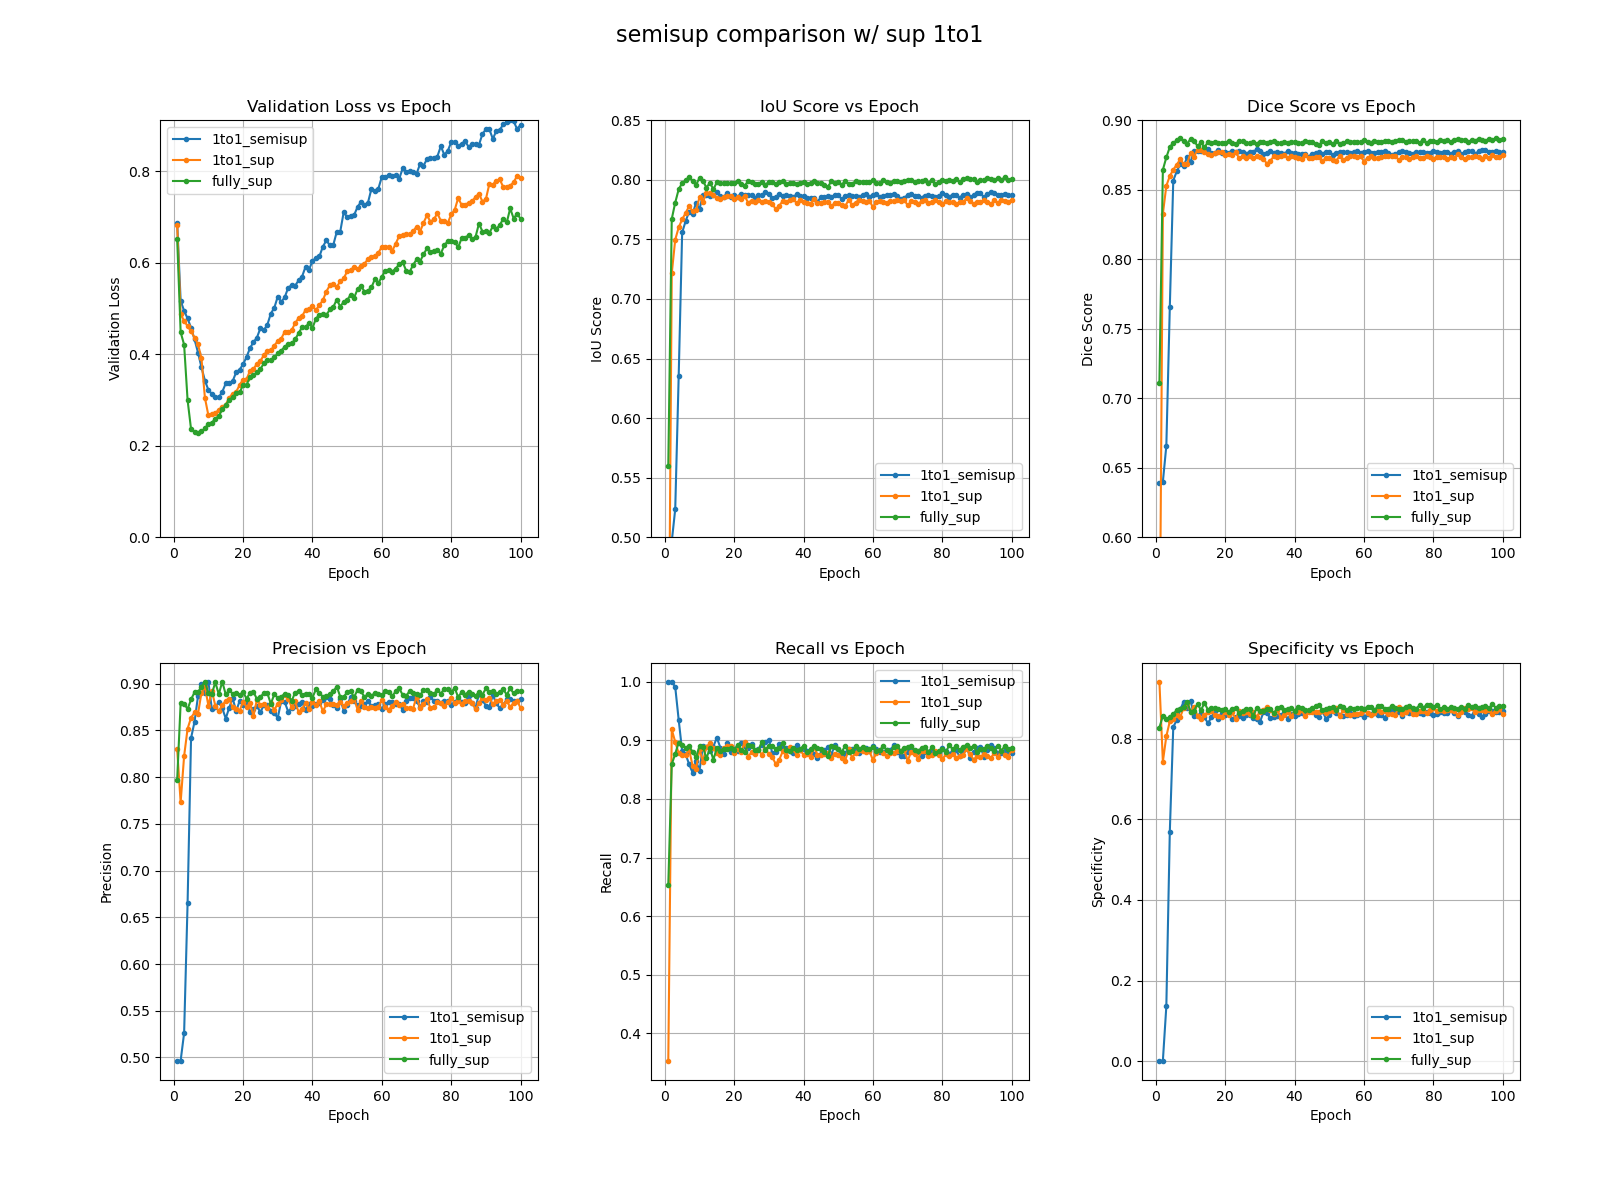
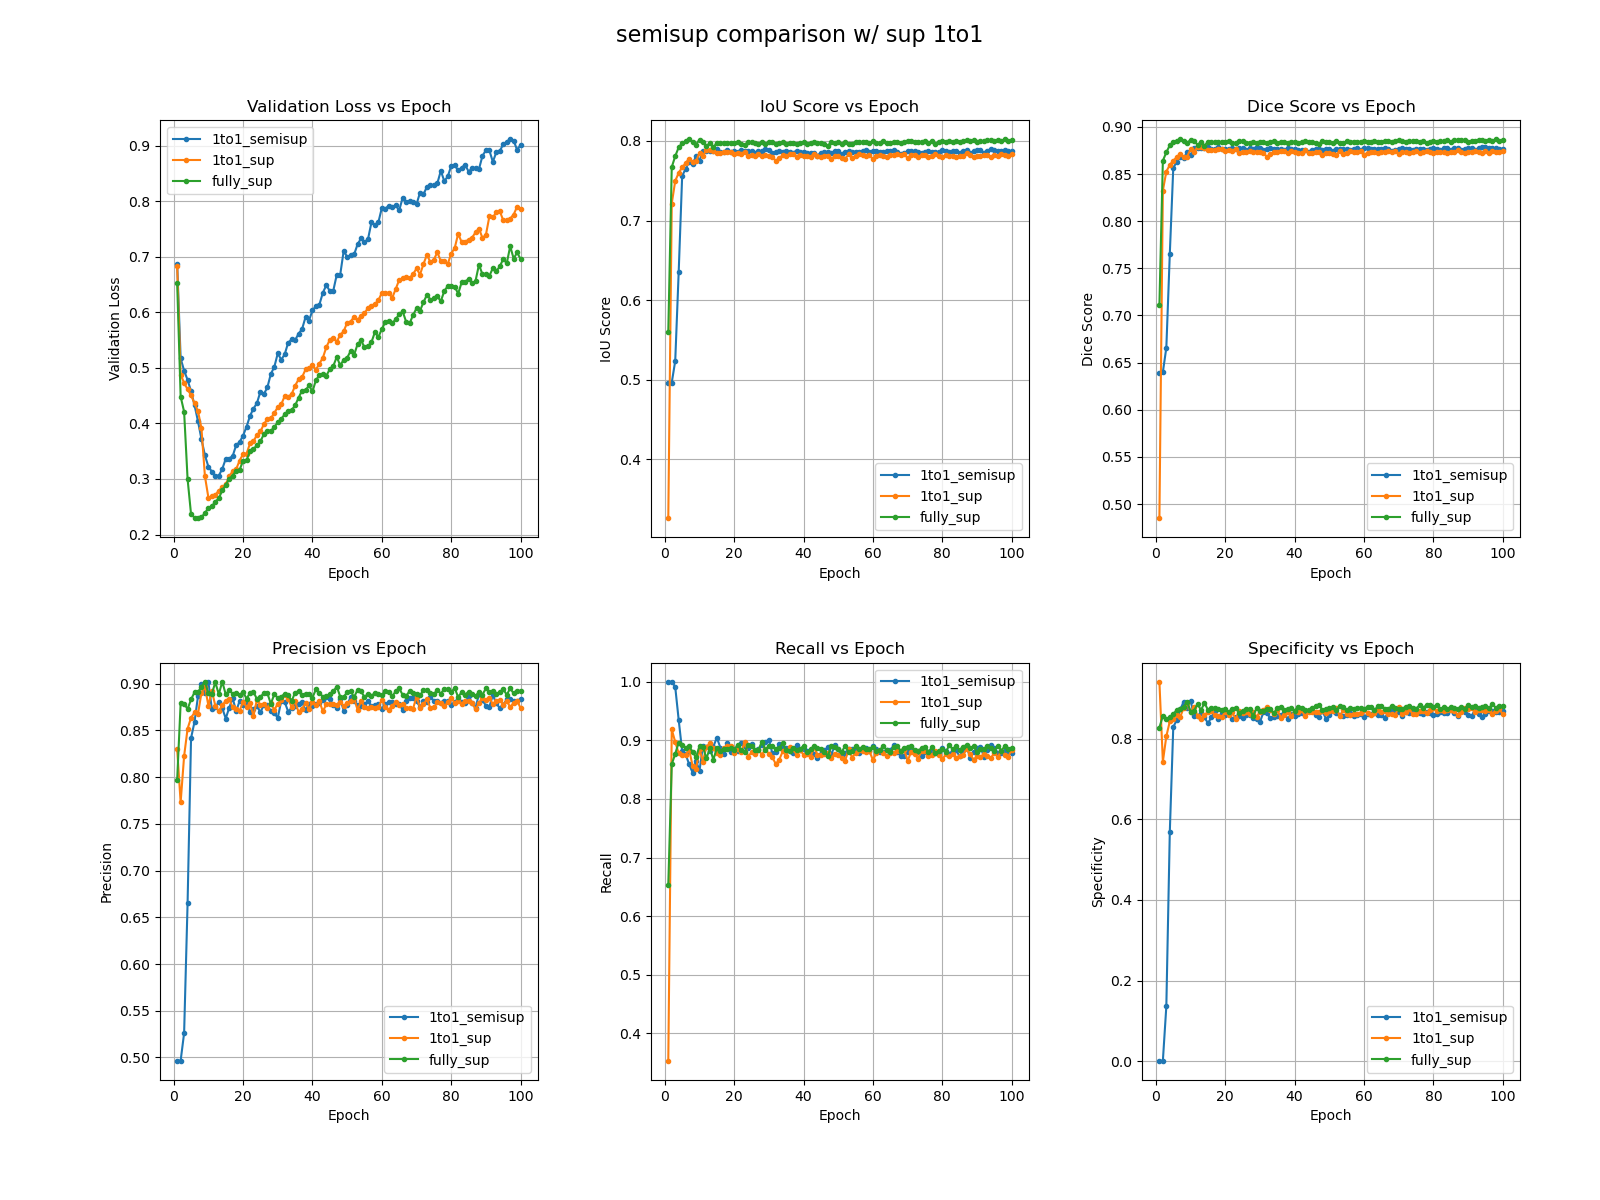
comparing all ratios with fully sup added

diff --git a/plot_metrics.py b/plot_metrics.py
@@ -91,14 +91,14 @@ def plot_three_metrics(semisup_csv, sup_csv, fully_sup_csv):
     # Create a plot for each column
     for i in range(1, len(headers1)):
         ax = axes[i-1]
-        if i == 1:
-            ax.set_ylim([0, max(data1[i])])
-        elif i == 2:
-            ax.set_ylim([0.5, 0.85])
-        elif i == 3:
-            ax.set_ylim([0.6, 0.9])
+        # if i == 1:
+        #     ax.set_ylim([0, max(data1[i])])
+        # elif i == 2:
+        #     ax.set_ylim([0.45, 0.81])
+        # elif i == 3:
+        #     ax.set_ylim([0.65, 0.9])
         # elif i == 4:
-        #     ax.set_ylim([0.75, 1])
+        #     ax.set_ylim([0.75, 0.95])
         ax.plot(data1[0], data1[i], marker='o', markersize = marker_size, linestyle='-', label=f'{extract_label(semisup_csv)}')
         ax.plot(data2[0], data2[i], marker='o', markersize = marker_size, linestyle='-', label=f'{extract_label(sup_csv)}')
         ax.plot(data3[0], data3[i], marker='o', markersize = marker_size, linestyle='-', label=f'{extract_label(fully_sup_csv)}')
@@ -189,62 +189,63 @@ def plot_four_metrics(csv_1to1, csv_1to3, csv_1to5, csv_1to10):
     
 plot_four_metrics('csv_metrics/metrics_1to1_semisup.csv', 'csv_metrics/metrics_1to3_semisup.csv', 'csv_metrics/metrics_1to5_semisup.csv', 'csv_metrics/metrics_1to10_semisup.csv')
 
-# def plot_five_metrics(csv_1to1, csv_1to3, csv_1to5, csv_1to10, csv_fullsup):
-#     '''Plot comparison between the different ratios of labeled to unlabeled data'''
-#     # Read data from both CSV files
-#     headers1, data1 = read_csv_data(csv_1to1)
-#     headers2, data2 = read_csv_data(csv_1to3)
-#     headers3, data3 = read_csv_data(csv_1to5)
-#     headers4, data4 = read_csv_data(csv_1to10)
-#     headers5, data5 = read_csv_data(csv_fullsup)
+def plot_five_metrics(csv_1to1, csv_1to3, csv_1to5, csv_1to10, csv_fullsup):
+    '''Plot comparison between the different ratios of labeled to unlabeled data'''
+    # Read data from both CSV files
+    headers1, data1 = read_csv_data(csv_1to1)
+    headers2, data2 = read_csv_data(csv_1to3)
+    headers3, data3 = read_csv_data(csv_1to5)
+    headers4, data4 = read_csv_data(csv_1to10)
+    headers5, data5 = read_csv_data(csv_fullsup)
 
-#     # Transpose data for easier plotting
-#     data1 = list(zip(*data1))
-#     data2 = list(zip(*data2))
-#     data3 = list(zip(*data3))
-#     data4 = list(zip(*data4))
-#     data5 = list(zip(*data5))
+    # Transpose data for easier plotting
+    data1 = list(zip(*data1))
+    data2 = list(zip(*data2))
+    data3 = list(zip(*data3))
+    data4 = list(zip(*data4))
+    data5 = list(zip(*data5))
     
-#     # Create a 2*3 grid of subplots
-#     fig, axes = plt.subplots(2, 3, figsize=(16, 12))
-#     axes = axes.ravel()
+    # Create a 2*3 grid of subplots
+    fig, axes = plt.subplots(2, 3, figsize=(16, 12))
+    axes = axes.ravel()
     
-#     # Function to extract label from CSV file name
-#     def extract_label(file_name):
-#         file_name = file_name.replace("csv_metrics/metrics_", "")
-#         file_name = file_name.replace(".csv", "")
-#         return file_name
+    # Function to extract label from CSV file name
+    def extract_label(file_name):
+        file_name = file_name.replace("csv_metrics/metrics_", "")
+        file_name = file_name.replace(".csv", "")
+        return file_name
     
-#     marker_size = 3
-#     # Create a plot for each column
-#     for i in range(1, len(headers1)):
-#         ax = axes[i-1]
-#         if max(data4[i]) < 1:
-#             ax.set_ylim([0, 1])
-#         else:
-#             ax.set_ylim([0, max(data4[i])])
-#         ax.plot(data1[0], data1[i], marker='o', markersize = marker_size, linestyle='-', label=f'{extract_label(csv_1to1)}')
-#         ax.plot(data2[0], data2[i], marker='o', markersize = marker_size, linestyle='-', label=f'{extract_label(csv_1to3)}')
-#         ax.plot(data3[0], data3[i], marker='o', markersize = marker_size, linestyle='-', label=f'{extract_label(csv_1to5)}')
-#         ax.plot(data4[0], data4[i], marker='o', markersize = marker_size, linestyle='-', label=f'{extract_label(csv_1to10)}')
+    marker_size = 3
+    # Create a plot for each column
+    for i in range(1, len(headers1)):
+        ax = axes[i-1]
+        if max(data4[i]) < 1:
+            ax.set_ylim([0, 1])
+        else:
+            ax.set_ylim([0, max(data4[i])])
+        ax.plot(data1[0], data1[i], marker='o', markersize = marker_size, linestyle='-', label=f'{extract_label(csv_1to1)}')
+        ax.plot(data2[0], data2[i], marker='o', markersize = marker_size, linestyle='-', label=f'{extract_label(csv_1to3)}')
+        ax.plot(data3[0], data3[i], marker='o', markersize = marker_size, linestyle='-', label=f'{extract_label(csv_1to5)}')
+        ax.plot(data4[0], data4[i], marker='o', markersize = marker_size, linestyle='-', label=f'{extract_label(csv_1to10)}')
+        ax.plot(data5[0], data5[i], marker='o', markersize = marker_size, linestyle='-', label=f'{extract_label(csv_fullsup)}')
         
-#         ax.set_xlabel(headers1[0])
-#         ax.set_ylabel(headers1[i])
-#         ax.set_title(f'{headers1[i]} vs {headers1[0]}')
-#         ax.grid(True)
-#         ax.legend()
+        ax.set_xlabel(headers1[0])
+        ax.set_ylabel(headers1[i])
+        ax.set_title(f'{headers1[i]} vs {headers1[0]}')
+        ax.grid(True)
+        ax.legend()
 
-#     # Add an overall figure title
-#     fig.suptitle("Performance comparison between different ratios of labeled to unlabeled data", fontsize=16)
+    # Add an overall figure title
+    fig.suptitle("Performance comparison between different ratios of labeled to unlabeled data", fontsize=16)
     
-#     # Adjust layout for better appearance and provide space for the suptitle
-#     fig.subplots_adjust(left=0.1, right=0.95, bottom=0.1, top=0.9, wspace=0.3, hspace=0.3)
+    # Adjust layout for better appearance and provide space for the suptitle
+    fig.subplots_adjust(left=0.1, right=0.95, bottom=0.1, top=0.9, wspace=0.3, hspace=0.3)
     
-#     # Create the 'results_img' folder if it doesn't exist
-#     os.makedirs('results_img', exist_ok=True)
+    # Create the 'results_img' folder if it doesn't exist
+    os.makedirs('results_img', exist_ok=True)
     
-#     # Save the figure as a .png file with the same name as the first .csv file, in the 'results_img' folder
-#     png_file = os.path.join('results_img', 'diff_ratio_comparison' + '.png')
-#     plt.savefig(png_file)
+    # Save the figure as a .png file with the same name as the first .csv file, in the 'results_img' folder
+    png_file = os.path.join('results_img', 'diff_ratio_comparison_fullysup' + '.png')
+    plt.savefig(png_file)
     
-# plot_four_metrics('csv_metrics/metrics_1to1_semisup.csv', 'csv_metrics/metrics_1to3_semisup.csv', 'csv_metrics/metrics_1to5_semisup.csv', 'csv_metrics/metrics_1to10_semisup.csv')
+plot_five_metrics('csv_metrics/metrics_1to1_semisup.csv', 'csv_metrics/metrics_1to3_semisup.csv', 'csv_metrics/metrics_1to5_semisup.csv', 'csv_metrics/metrics_1to10_semisup.csv', 'csv_metrics/metrics_fully_sup.csv')
